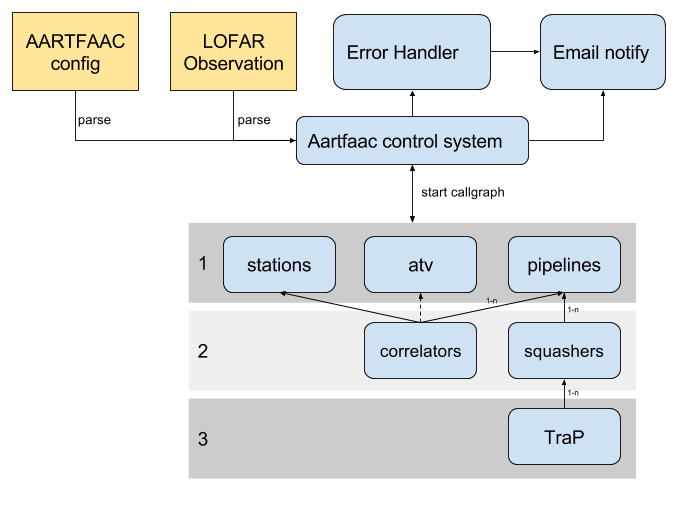
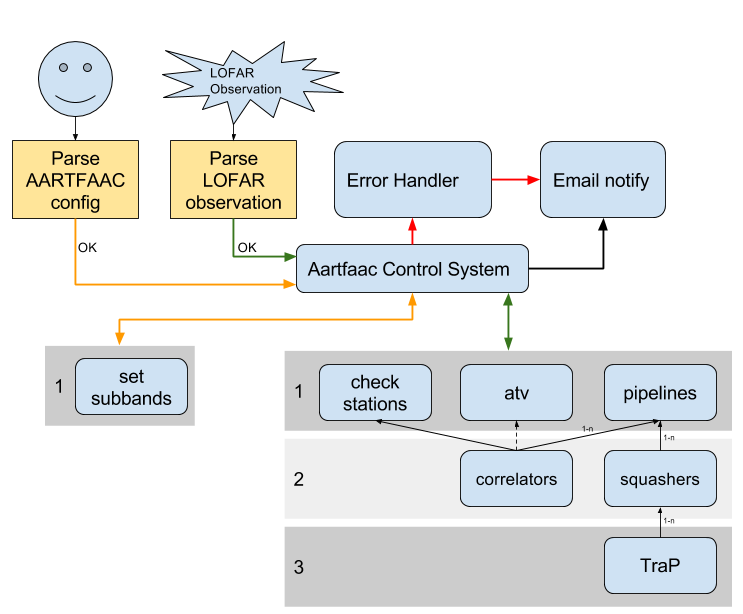
Update section 7: New diagram and text updates

diff --git a/aartfaac_sys_design_jai.tex b/aartfaac_sys_design_jai.tex
@@ -907,31 +907,39 @@ second.
   observation scheduling system and triggers AARTFAAC observations.}
 \label{fig:afaac_ctrl_sys}
 \end{figure*}
-The  AARTFAAC  control subsystem  coordinates  the  diverse processing  and  I/O
-infrastructure of the  AARTFAAC system, and acts as a  liaison between the LOFAR
-observatory,  AARTFAAC user  and  system.   It is  essential  to the  autonomous
-functioning of  the instrument by  providing fault  tolerance.  It has  a python
-based client-server architecture, with the  server process existing on the LOFAR
-manager node and clients waiting for  commands on the various AARTFAAC subsystem
-controllers. Every scheduled  LOFAR observation is monitored  for suitability as
-an AARTFAAC  observation. Figure  \ref{fig:afaac_ctrl_sys} shows  the functional
-blocks of  the AARTFAAC control system.   When an observation is  initiated, the
-control  system  launches  the  call-graph using  the  current  active  AARTFAAC
-configuration. This  configuration defines  what subbands to  listen to  and how
-many  images to  create.  The  call-graph initiates  everything at  1 (stations,
-aartfaac tv,  pipelines). When at least  1 pipeline is started  and the stations
-are functioning properly  it calls everything at  2 and so on. An  email will be
-sent when an error occurs or when an observation successfully started.\\
+The  AARTFAAC  control subsystem  coordinates  the  diverse processing  and
+I/O infrastructure of the  AARTFAAC system, and acts as a  liaison between the
+LOFAR observatory,  AARTFAAC user  and  system.   It is  essential  to the
+autonomous functioning of  the instrument by  providing fault  tolerance.  It
+has  a python based client-server architecture, with the  server process
+existing on the LOFAR manager node and clients waiting for  commands on the
+various AARTFAAC subsystem controllers. Every scheduled  LOFAR observation is
+monitored  for suitability as an AARTFAAC  observation. Figure
+\ref{fig:afaac_ctrl_sys} shows  the functional blocks of  the AARTFAAC control
+system.   When a LOFAR observation is  initiated and AARTFAAC is allowed to
+piggyback, the control  system launches  the  call-graph using  the  current
+active  AARTFAAC configuration.  This  user defined configuration determines
+i.e. what subbands to  listen to and how many  images to  create.  The
+call-graph initiates  everything at  1 (stations, aartfaac tv,  pipelines) by
+connecting to the appropreate clients and starting the processes. When at least
+$1$ out of $n$ pipelines is started  and the stations are functioning properly
+it calls everything at  $2$ (correlators and squashers). When at least $1$ out
+of $n$ correlators and $1$ out of $n$ squashers have been spawned it will
+initiate TraP in the third stage. An  email will be sent when an error occurs
+or when an observation successfully started.\\
 
-\noindent \textbf  {Monitoring interface:} The control  system allows monitoring
-the  various  subsystems at  fine  granularity,  making  it useful  to  localize
-problems within  the system.  A  Munin[ref] based system monitoring  tool allows
-viewing statistics  of I/O between nodes,  computing on various nodes,  and disk
-usage   via    a   webpage\footnote{https://proxy.lofar.eu/aartfaac/index.html},
-including history  at various time  cadences.  The processed outputs  at various
-stages in the pipeline are also presented onto a webpage for the end to end, and
-astronomical monitoring  of the system, some  examples of this are  shown in the
-results section.
+\noindent \textbf  {Monitoring interface:} The control  system allows
+monitoring the  various  subsystems at  fine  granularity,  making  it useful
+to  localize problems within  the system by examing the email reports.  For
+monitoring dataflow on a hardware level we use
+Munin\footnote{http://munin-monitoring.org}. This tool allows viewing
+statistics  of I/O between nodes,  computing on various nodes,  and disk usage
+via    a   webpage\footnote{https://proxy.lofar.eu/aartfaac/munin},
+including history  at various time  cadences.  The processed outputs  at
+various stages in the pipeline are also presented onto a
+webpage\footnote{https://proxy.lofar.eu/aartfaac/index.html} for the end to
+end, and astronomical monitoring  of the system, some  examples of this are
+shown in the results section.
 
 \section {\label{sec:results} Commissioning results}
 \begin{figure*}[htbp]
